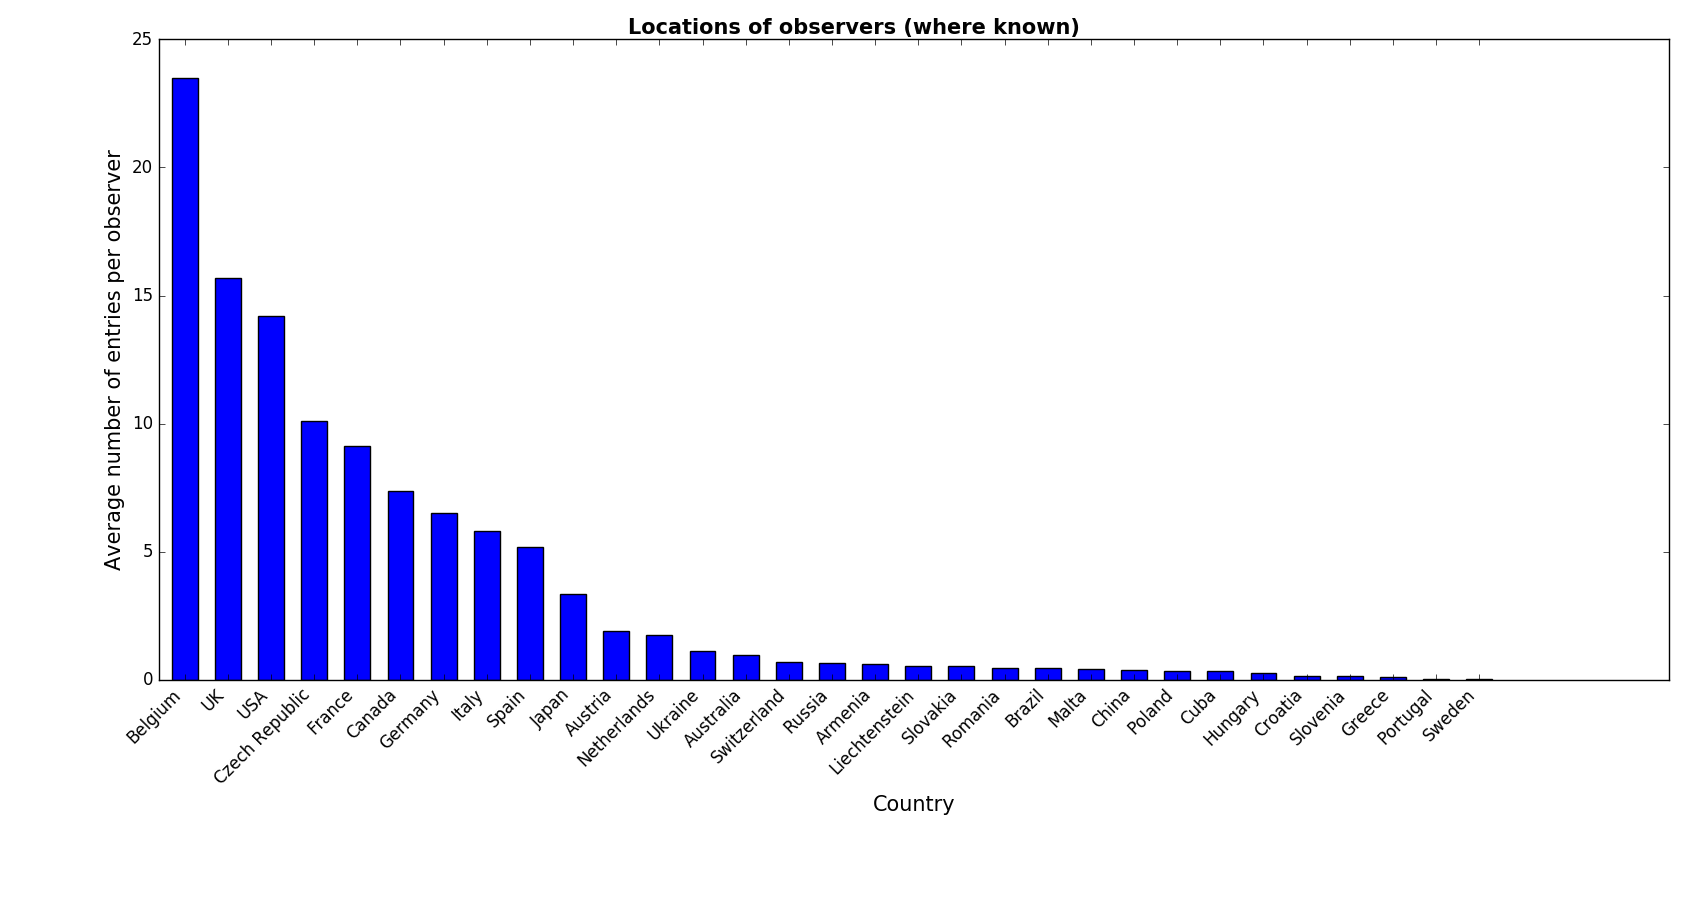
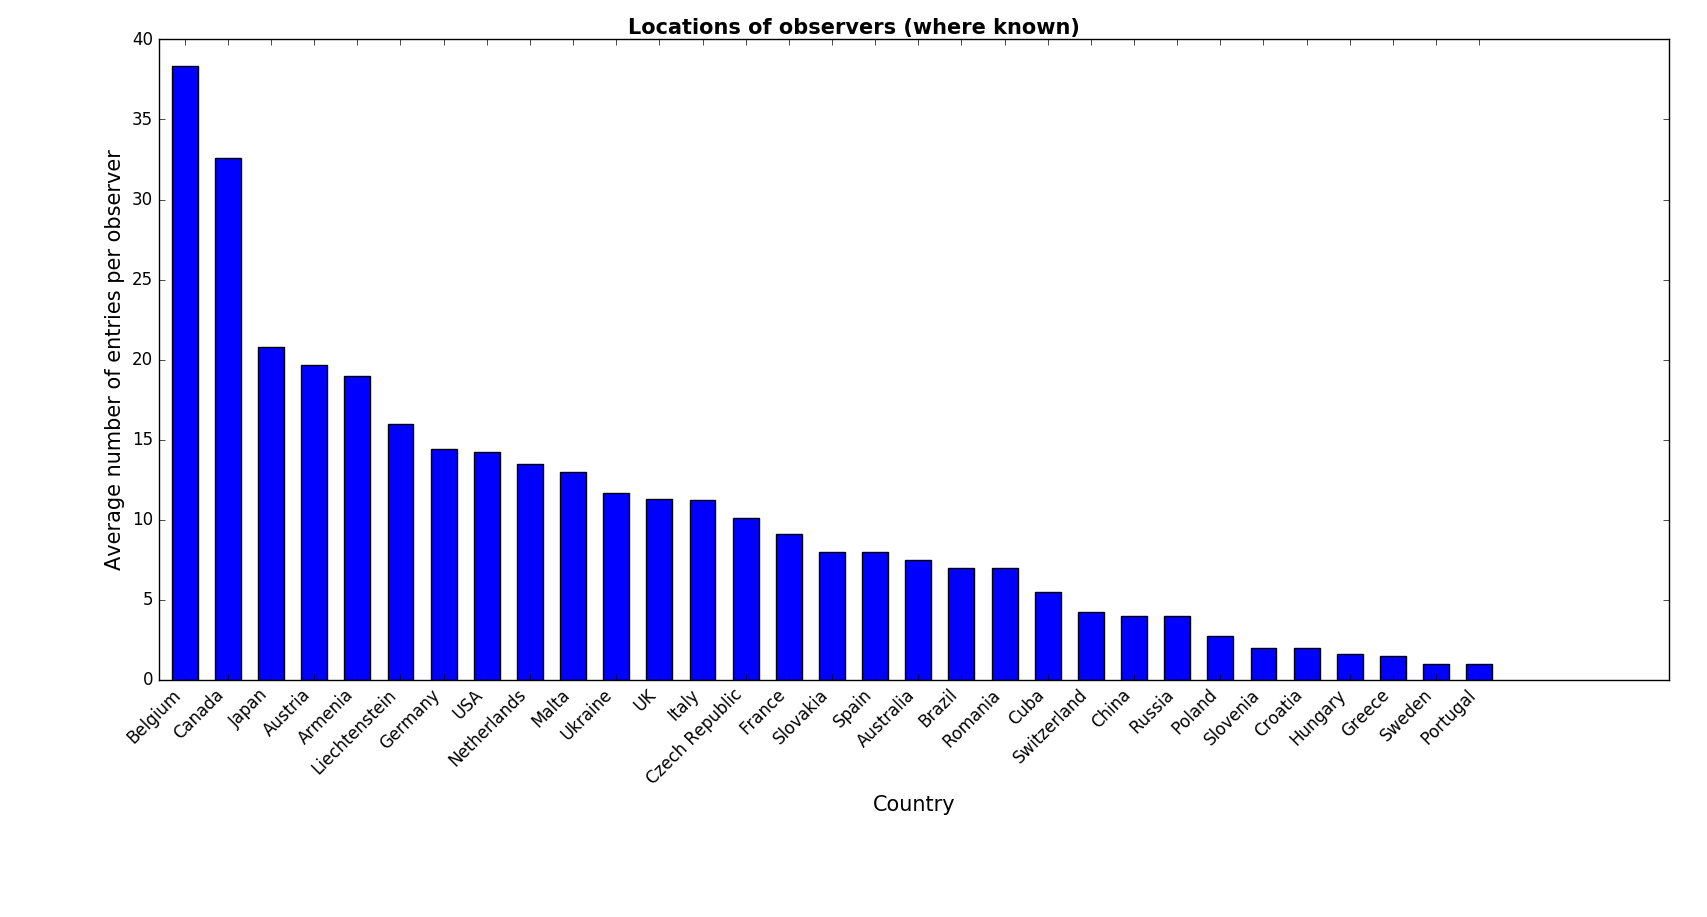
Finish plots

diff --git a/lib/plots/locationsAvg.py b/lib/plots/locationsAvg.py
@@ -1,3 +1,4 @@
+from __future__ import division
 import cPickle as pickle
 import numpy as np
 import os, csv
@@ -78,6 +79,7 @@ def getAttr(attr, authorobj, attrType):
         return 'Unknown'
 
 hist = {}
+counts = {}
 
 for name,authorobj in authors.items():
     result = getAttr('Country', authorobj, 'Location')
@@ -106,24 +108,28 @@ for name,authorobj in authors.items():
         result = 'Spain'
 
     if result not in hist.keys():
-        hist[result] = 1
+        hist[result] = len(authorobj.data.values())
+        counts[result] = 1
     else:
-        hist[result] += 1
+        hist[result] += len(authorobj.data.values())
+        counts[result] += 1
 
-histList = []
+histList = {}
 for key, value in hist.items():
-    histList.append((key,value))
+    histList[key] = value/counts[key]
 
 countriesOrdered = []
 countsOrdered = []
-for x in sorted(histList, key=lambda tup: tup[1]):
-    countriesOrdered.append(x[0])
-    countsOrdered.append(x[1])
 
-countriesOrdered.reverse()
-countsOrdered.reverse()
-print(countriesOrdered)
-print(countsOrdered)
+countriesOrdered = sorted(histList, key=histList.get, reverse=True)
+
+for country in countriesOrdered:
+    countsOrdered.append(histList[country])
+
+#countriesOrdered.reverse()
+#countsOrdered.reverse()
+print(len(countriesOrdered))
+print(len(countsOrdered))
 
 indices = np.arange(len(countriesOrdered))
 width = 0.6
@@ -133,7 +139,7 @@ ax.set_xticks(indices+width)
 ax.set_xticklabels(countriesOrdered, rotation = 45, ha='right')
 fig.suptitle('Locations of observers (where known)', fontsize = 15, fontweight = 'bold')
 ax.set_xlabel('Country', fontsize = 15)
-ax.set_ylabel('Number of observers', fontsize = 15)
+ax.set_ylabel('Average number of entries per observer', fontsize = 15)
 
 plt.tight_layout()
 

diff --git a/lib/plots/locationsVolume.py b/lib/plots/locationsVolume.py
@@ -78,6 +78,7 @@ def getAttr(attr, authorobj, attrType):
         return 'Unknown'
 
 hist = {}
+counts = {}
 
 for name,authorobj in authors.items():
     result = getAttr('Country', authorobj, 'Location')
@@ -106,9 +107,9 @@ for name,authorobj in authors.items():
         result = 'Spain'
 
     if result not in hist.keys():
-        hist[result] = 1
+        hist[result] = len(authorobj.data.values())
     else:
-        hist[result] += 1
+        hist[result] += len(authorobj.data.values())
 
 histList = []
 for key, value in hist.items():
@@ -133,7 +134,7 @@ ax.set_xticks(indices+width)
 ax.set_xticklabels(countriesOrdered, rotation = 45, ha='right')
 fig.suptitle('Locations of observers (where known)', fontsize = 15, fontweight = 'bold')
 ax.set_xlabel('Country', fontsize = 15)
-ax.set_ylabel('Number of observers', fontsize = 15)
+ax.set_ylabel('Total number of entries', fontsize = 15)
 
 plt.tight_layout()
 
